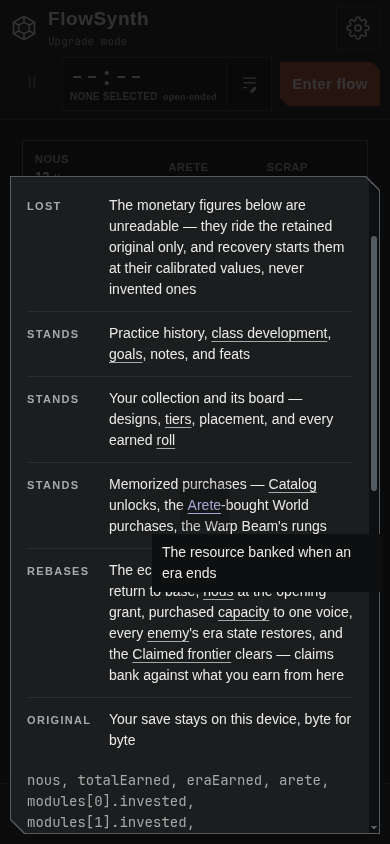
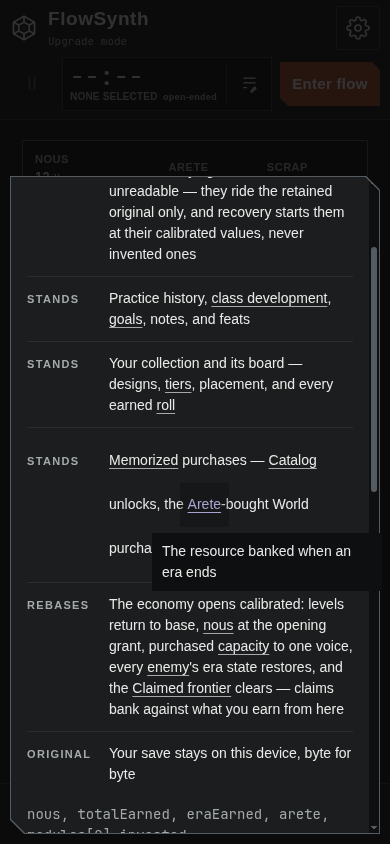
Verify recovery retry and disclosure corrections on desktop and phone (#494)

diff --git a/docs/evidence/issue-494/README.md b/docs/evidence/issue-494/README.md
@@ -3,8 +3,8 @@
 Captured from the verified checkout: served by `npm run dev` at
 `http://localhost:5173/`, gated by the capture preflight —
 `provenance.json` records worktree `/home/lem/dev/flowsynth`, branch
-`t3/issue-494`, commit `1ead928` (the review-fixes commit; the recovery
-itself is `f939b2c`, contained in it), clean source. All
+`t3/issue-494`, commit `fd9a952` (the persistence corrections at
+`b742663` plus non-overlapping disclosure targets), clean source. All
 captures are headless-Chromium screenshots of that server (chromedriver
 session, window 1280×1200 desktop / 390×987 phone, screenshots at the
 viewport's CSS pixels).
@@ -27,6 +27,9 @@ byte-for-byte.
 | File | What it shows |
 | --- | --- |
 | `desktop-recovery-offer.png` | The boot offer at desktop width: the SAVE RECOVERY modal's composition — the lost/stands/rebased/original folio rows with hoverable terms, and the unavailable figures verbatim (`nous`, `totalEarned`, `eraEarned`, `arete`, every `modules[i].invested`) in the mono block. The Arete disclosure stands open under keyboard focus. |
+| `desktop-recovery-memorized.png`, `desktop-recovery-warp-beam.png` | Both newly disclosed terms under keyboard focus; Escape dismisses each without closing the offer (asserted). |
+| `desktop-recovery-write-failed.png` | Primary-only quota denial: the error and retry/download actions remain in the recovery destination, working state and all three persistence slots unchanged; a subsequent retry succeeds (asserted). |
+| `phone-recovery-memorized.png`, `phone-recovery-warp-beam.png` | Both newly disclosed terms opened through emulated touch, with tap-away dismissal asserted. Wrapped controls reserve their full vertical hit space. |
 | `desktop-recovery-disclosure.png` | The disclosure standard: the Arete term trigger under keyboard focus (visible outline) with its tooltip layer open — plain floating text, no card. Escape dismisses the disclosure without closing the offer (asserted). |
 | `desktop-recovered-board.png` | The outcome after Recover: the calibrated economy on the retained collection — every module at Lv. 0 with its merge tier (Roman numerals) and placement standing, nous at the opening grant (12 ν, 4.15 ν/s), Arete 0 (lost in this seed), Harmonic capacity returned to 1/3. The run asserted the slot carries finite v13 bytes and the exact source bytes stand as the original. |
 | `desktop-recovery-declined.png` | The declined choice: the offer retired, the fresh instrument beneath, both slots intact — the next boot re-offers (asserted). |
@@ -45,10 +48,23 @@ landed the opening grant with levels cleared and wrote finite v13 bytes;
 the recovered save reloaded with neither the offer nor the migration;
 declining and the next boot's re-offer behaved as the contract states;
 the import path adopted nothing on decline and retained its exact source
-before applying. Reduced motion was emulated active on the phone pass
-with zero running animations on the offer.
+before applying. Primary-only write denial was injected through the browser's
+Storage prototype: the app kept its working state and offer, restored the exact
+primary/original/archive bytes, and succeeded after storage was restored.
+Memorized and Warp Beam were opened and dismissed by keyboard and emulated
+touch. Reduced motion was emulated active on the phone pass with zero running
+animations on the offer.
 
-Recorded alongside: `recovered-walk.json` — the recovered supplied-board
+The first capture attempt timed out opening Arete on phone. After a successful
+server health check and preflight, the second attempt's hit-test assertion
+identified Warp Beam intercepting Arete's center point: the newly disclosed
+wrapped controls overlapped. A local row rule now reserves each control's full
+44px height; the complete recapture at `fd9a952` passed the hit test and every
+touch interaction. These are successful final captures, not claims based on
+the failed attempts.
+
+Recorded alongside (the original engine-era evidence, not rerun for these
+persistence-only corrections): `recovered-walk.json` — the recovered supplied-board
 position's scheduled continuation (the same seed/policy/stop the #493
 converted walk recorded), run from the recovered fixture: a 6-Arete claim
 banked inside four credited hours past the cleared frontier, every
